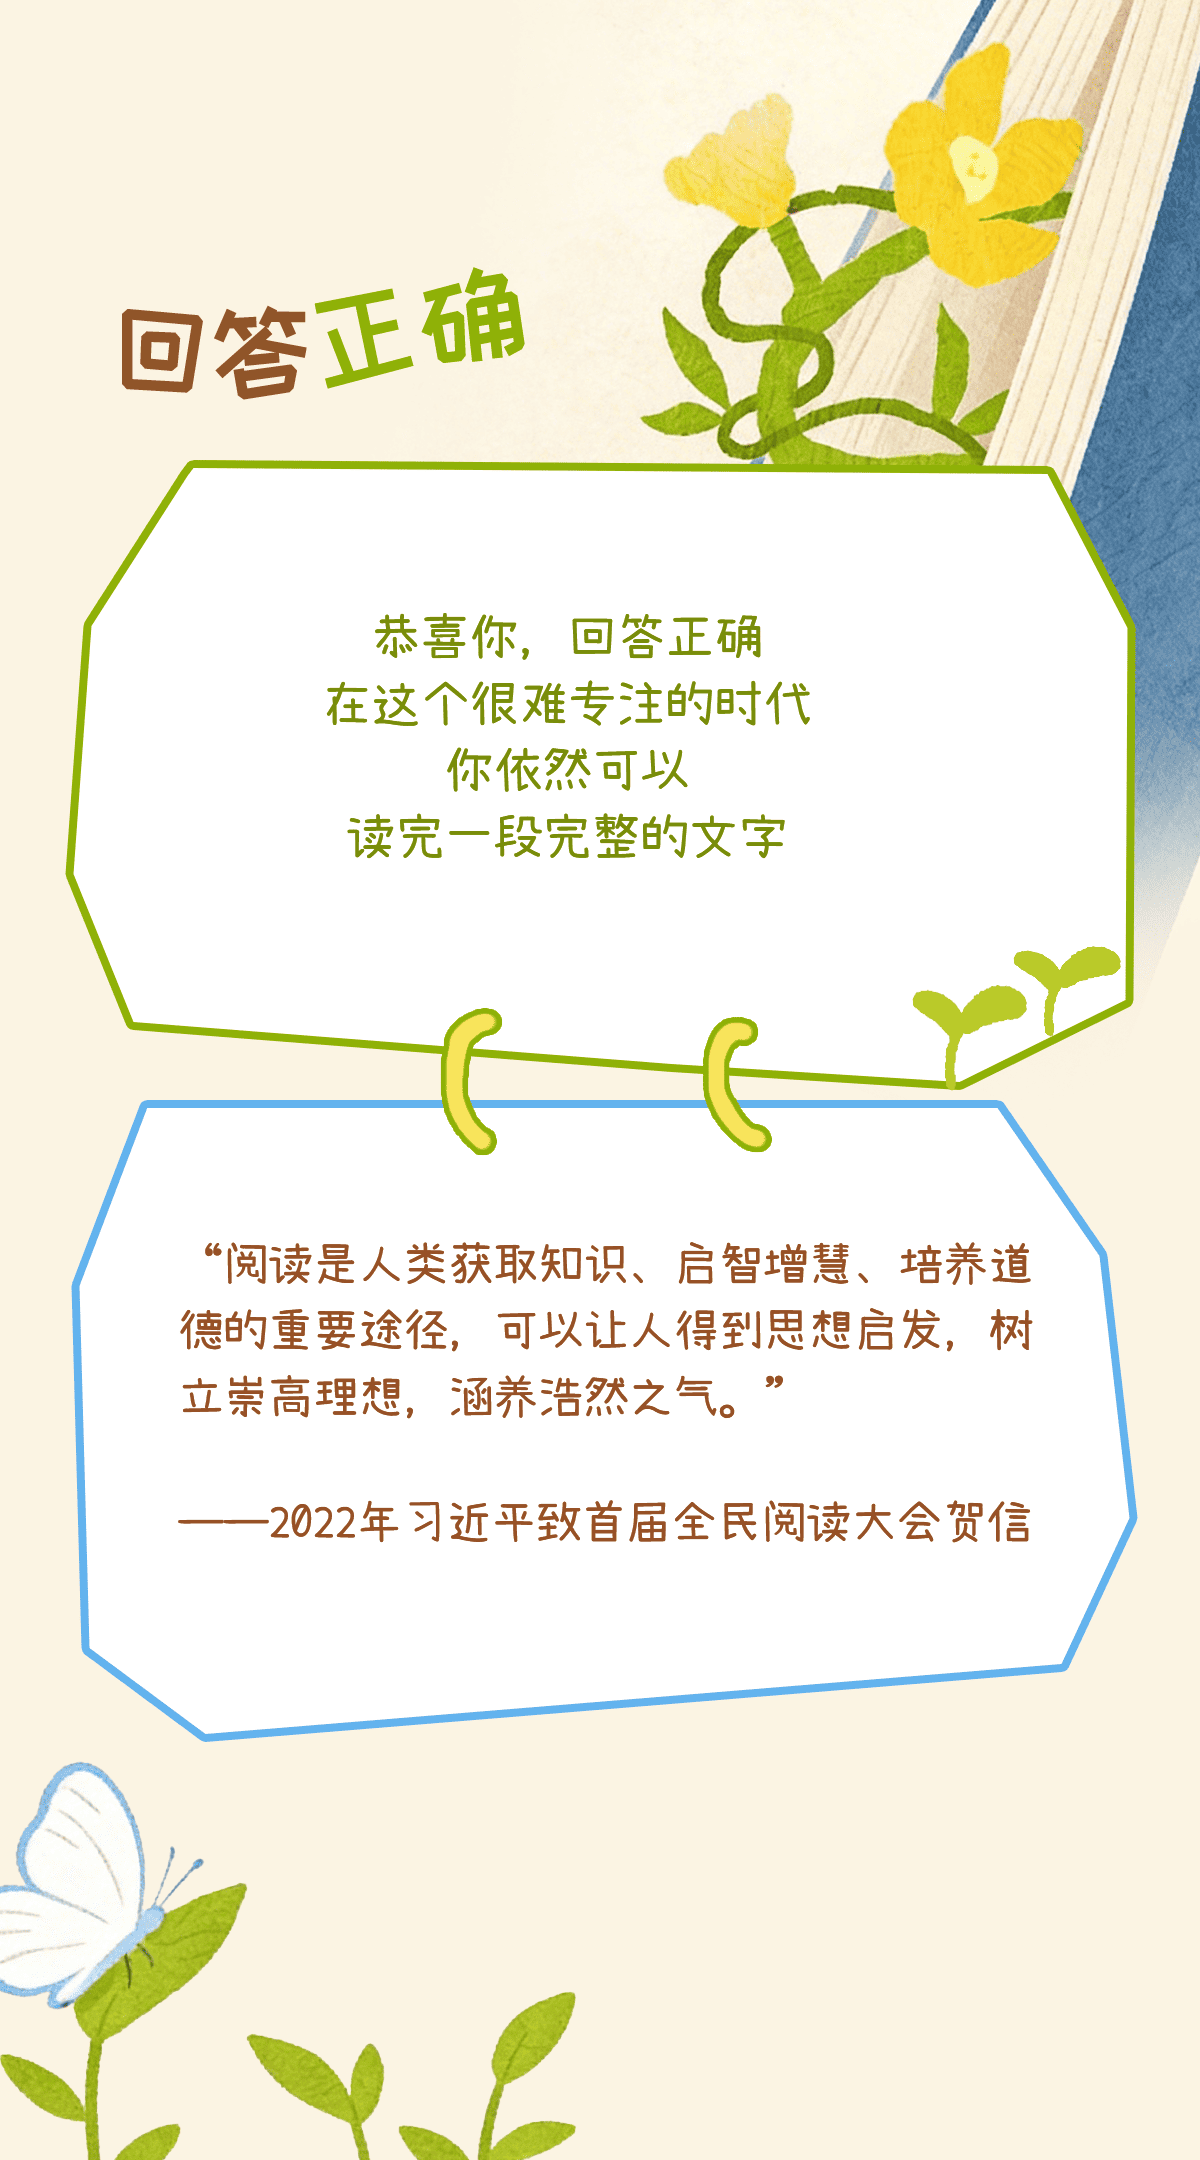
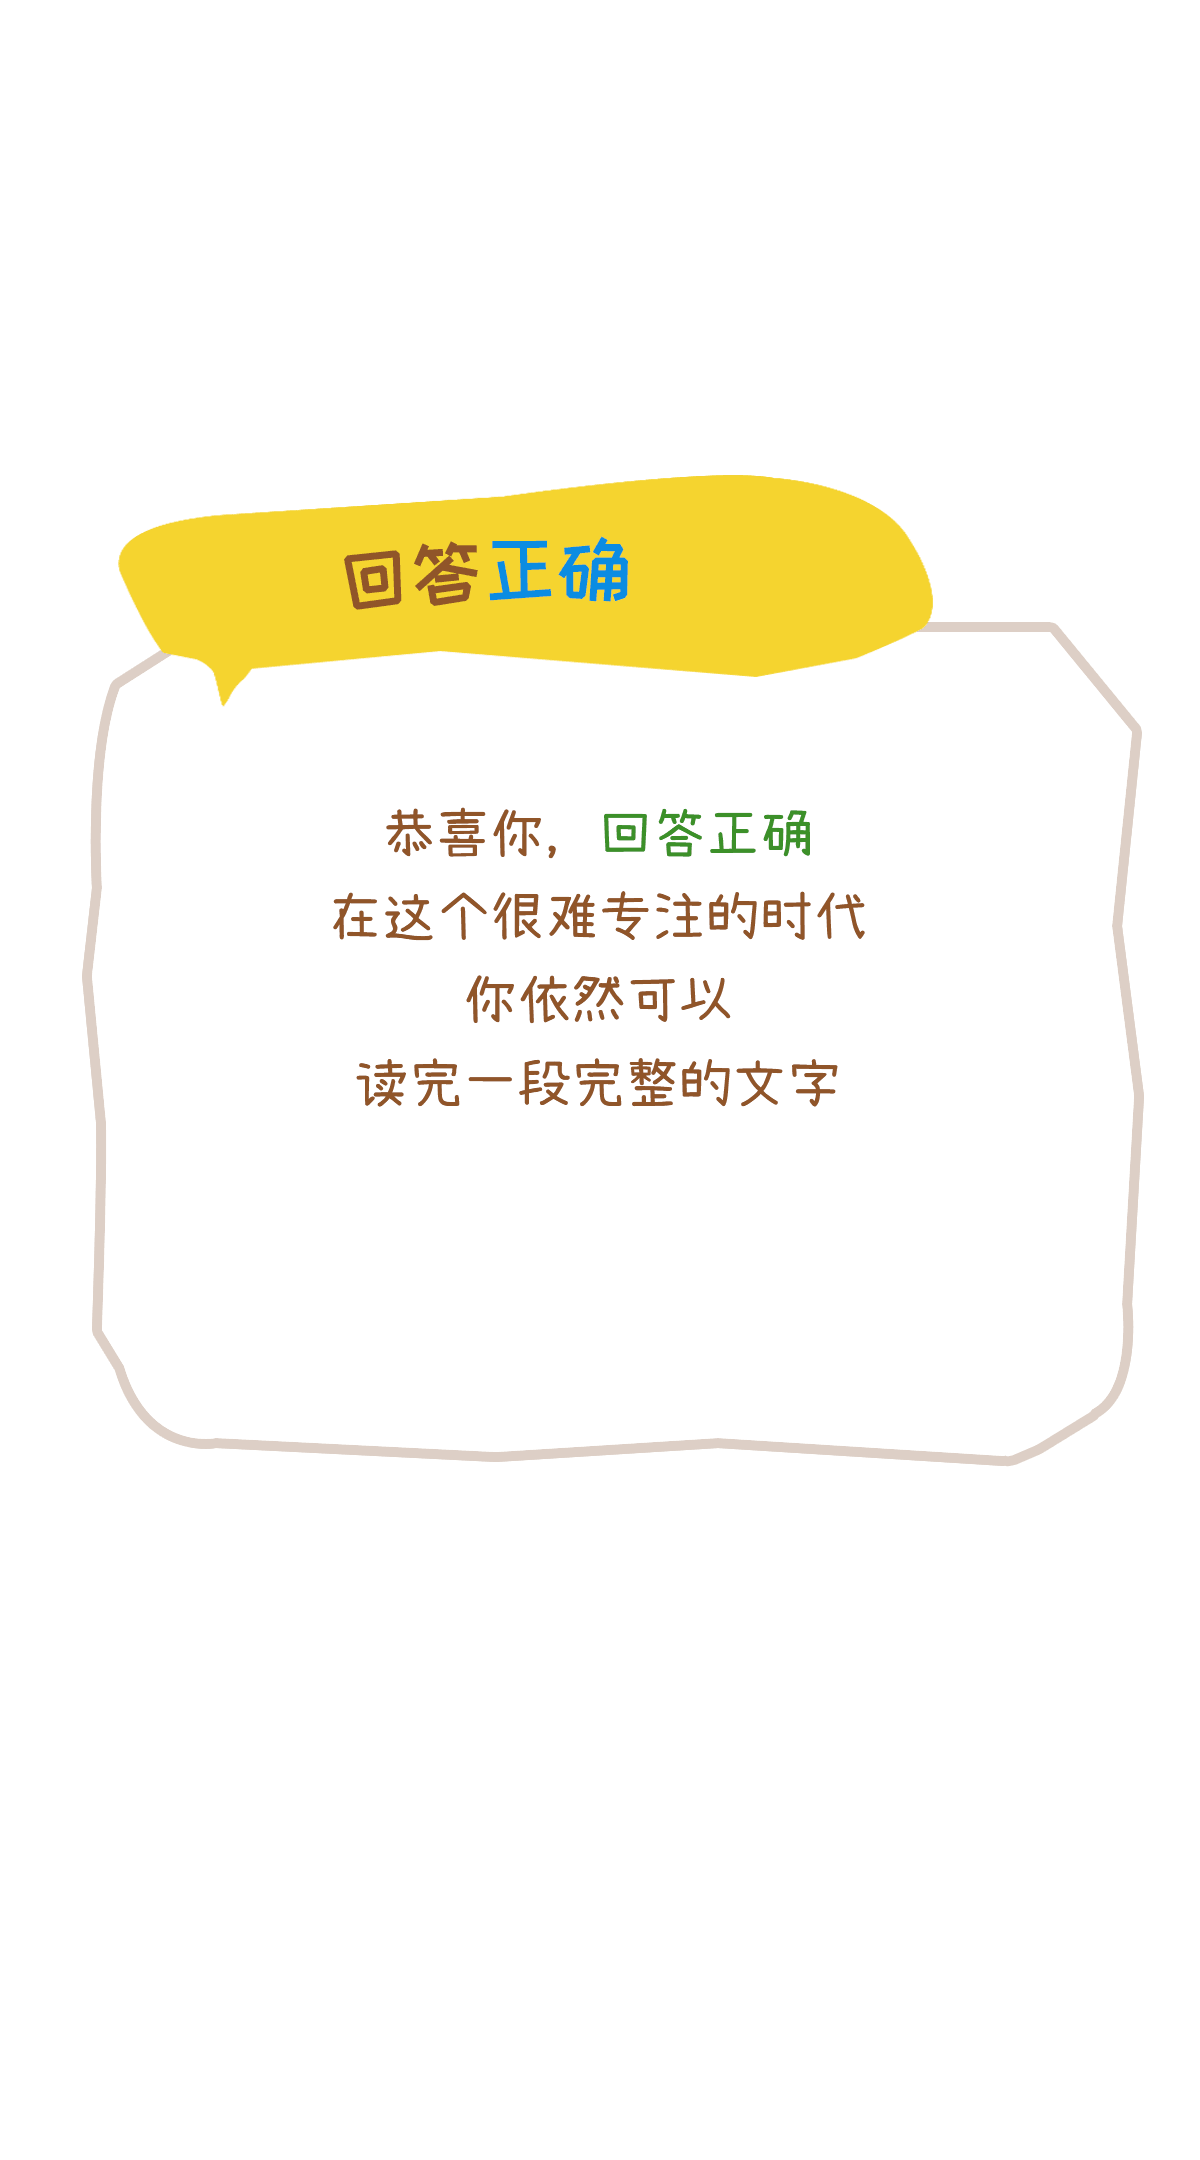
P4更新

diff --git a/index.html b/index.html
@@ -101,6 +101,11 @@
 
     #page4 {
       z-index: 40;
+      display: flex;
+      align-items: center;
+      justify-content: center;
+      padding: 4vw;
+      background: rgba(8, 6, 4, 0.78);
     }
 
     #page5 {
@@ -789,6 +794,26 @@
       transform: translateX(-50%) scale(0.98);
     }
 
+    .p4-popup-card {
+      position: relative;
+      width: 96vw;
+      display: flex;
+      align-items: center;
+      justify-content: center;
+    }
+
+    .p4-popup-image {
+      width: 100%;
+      height: auto;
+      display: block;
+    }
+
+    .p4-popup-card .continue-btn {
+      bottom: 12%;
+      width: 42vw;
+      z-index: 2;
+    }
+
     .popup-close:active {
       transform: scale(0.95);
     }
@@ -875,11 +900,13 @@
       </div>
     </section>
 
-    <section id="page4" class="layer" aria-label="答题结果页">
-      <img id="p4ResultBg" class="layer-bg" src="./assets/p4/Correctanswer.png" alt="答题结果">
-      <button id="continueBtn" class="continue-btn" type="button" aria-label="继续参与">
-        <img src="./assets/p4/Continue.png" alt="继续参与">
-      </button>
+    <section id="page4" class="layer" aria-label="答题结果弹窗">
+      <div class="p4-popup-card">
+        <img id="p4ResultBg" class="p4-popup-image" src="./assets/p4/Correctanswer.png" alt="答题结果">
+        <button id="continueBtn" class="continue-btn" type="button" aria-label="继续参与">
+          <img src="./assets/p4/Continue.png" alt="继续参与">
+        </button>
+      </div>
     </section>
 
     <section id="page5" class="layer" aria-label="写下感受页">
@@ -1654,11 +1681,11 @@
         p4ResultBg.src = state.p3AnswerCorrect
           ? "./assets/p4/Correctanswer.png"
           : "./assets/p4/Incorrectanswer.png";
-        page3.classList.remove("show");
         page4.classList.add("show");
       }
 
       function enterP5Page() {
+        page3.classList.remove("show");
         page4.classList.remove("show");
         page5.classList.add("show");
         hideP6LotteryPopup();